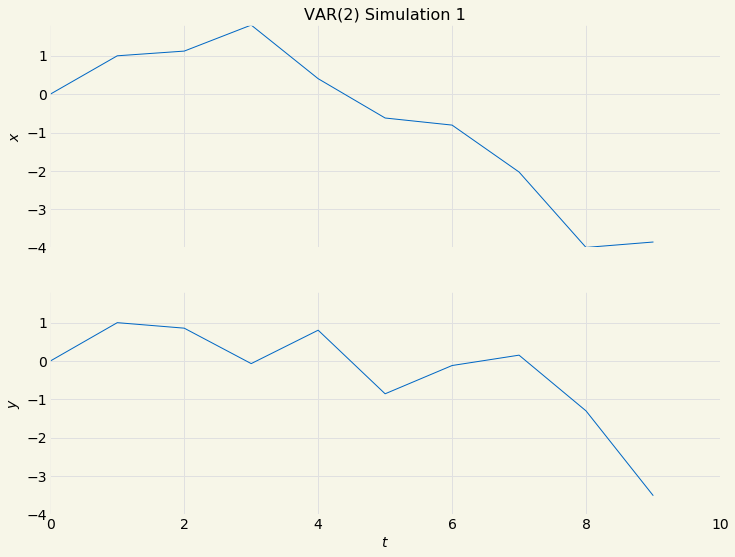
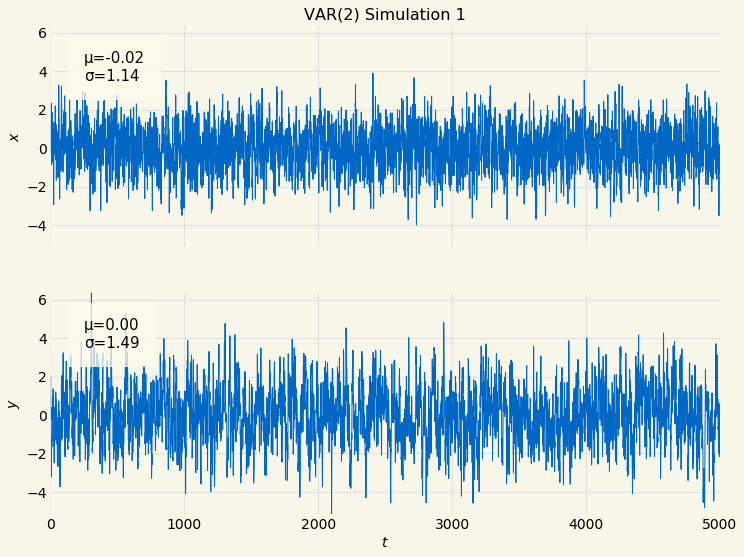
started work on moment comparison

diff --git a/hydrogen_notebooks/algorithmic_trading/mean_reversion/vector_autoregression_simulations.py b/hydrogen_notebooks/algorithmic_trading/mean_reversion/vector_autoregression_simulations.py
@@ -26,6 +26,9 @@ def timeseries_plot(samples, ylabel, title, plot_name):
     axis[nplot-1].set_xlabel(r"$t$")
     time = numpy.linspace(0, nsample-1, nsample)
     for i in range(nplot):
+        stats=f"μ={format(numpy.mean(samples[i]), '2.2f')}\nσ={format(numpy.std(samples[i]), '2.2f')}"
+        bbox = dict(boxstyle='square,pad=1', facecolor="#FEFCEC", edgecolor="#FEFCEC", alpha=0.75)
+        axis[i].text(0.05, 0.75, stats, fontsize=15, bbox=bbox, transform=axis[i].transAxes)
         axis[i].set_ylabel(ylabel[i])
         axis[i].set_ylim([ymin, ymax])
         axis[i].set_xlim([0.0, nsample])
@@ -62,7 +65,43 @@ def phi_companion_form(φ):
             else:
                 r = numpy.concatenate((r, numpy.zeros((n, n))), axis=1)
         p = numpy.concatenate((p, r), axis=0)
-    return p
+    return numpy.matrix(p)
+
+def mean_companion_form(μ):
+    n = len(μ)
+    p = numpy.zeros(n**2)
+    p[:n] = μ
+    return numpy.matrix([p]).T
+
+def omega_companion_form(Ω):
+    n, _ = Ω.shape
+    p = numpy.zeros((n**2, n**2))
+    p[:n, :n] = Ω
+    return numpy.matrix(p)
+
+def stationary_mean(Φ, Μ):
+    n, _ = Φ.shape
+    tmp = numpy.matrix(numpy.eye(n)) - Φ
+    return numpy.linalg.inv(tmp)*Μ
+
+def vec(m):
+    _, n = m.shape
+    v = numpy.matrix(numpy.zeros(n**2)).T
+    for i in range(n):
+        d = i*n
+        v[d:d+n] = m[:,i]
+    return v
+
+def unvec(v):
+    n2, _ = v.shape
+    n = int(numpy.sqrt(n2))
+    m = numpy.matrix(numpy.zeros((n, n)))
+    print(m.shape)
+    print(v.shape)
+    for i in range(n):
+        d = i*n
+        m[:,i] = v[d:d+n]
+    return m
 
 # %%
 
@@ -73,6 +112,41 @@ def phi_companion_form(φ):
                      [0.2, 0.1]])
 ])
 phi_companion_form(φ)
+
+# %%
+
+μ = [1.0, 2.0]
+mean_companion_form(μ)
+
+# %%
+
+Ω = numpy.matrix([[1.0, 0.5], [0.5, 2.0]])
+omega_companion_form(Ω)
+
+# %%
+
+m = numpy.matrix([[1,2,3],
+                  [4,5,6],
+                  [7,8,9]])
+vec(m)
+
+# %%
+
+unvec(vec(m))
+
+# %%
+
+μ = [1.0, 2.0]
+φ = numpy.array([
+        numpy.matrix([[1.0, 0.5],
+                     [0.5, 1.0]]),
+        numpy.matrix([[0.5, 0.3],
+                     [0.2, 0.1]])
+])
+
+Φ = phi_companion_form(φ)
+M = mean_companion_form(μ)
+stationary_mean(Φ,  M)
 
 # %%
 
@@ -92,16 +166,24 @@ phi_companion_form(φ)
 # %%
 
 μ = [0.0, 0.0]
-Ω = [[1.0, 0.0], [0.0, 1.0]]
+Ω = numpy.matrix([[1.0, 0.0], [0.0, 1.0]])
 φ = numpy.array([
-        numpy.matrix([[1.0, 0.0],
-                     [0.5, 0.0]]),
+        numpy.matrix([[0.5, 0.0],
+                     [0.0, 0.75]]),
         numpy.matrix([[0.0, 0.0],
                      [0.0, 0.0]])
 ])
 x0 = numpy.array([[0.0, 1.0], [0.0, 1.0]])
-n = 10
+n = 5000
 xt = var_simulate(x0, μ, φ, Ω, n)
+
+# %%
+# Diagonalize companion form of φ
+
+Φ = phi_companion_form(φ)
+λ, v = numpy.linalg.eig(Φ)
+v = numpy.matrix(v)
+numpy.linalg.inv(v)*Φ*v
 
 # %%
 
